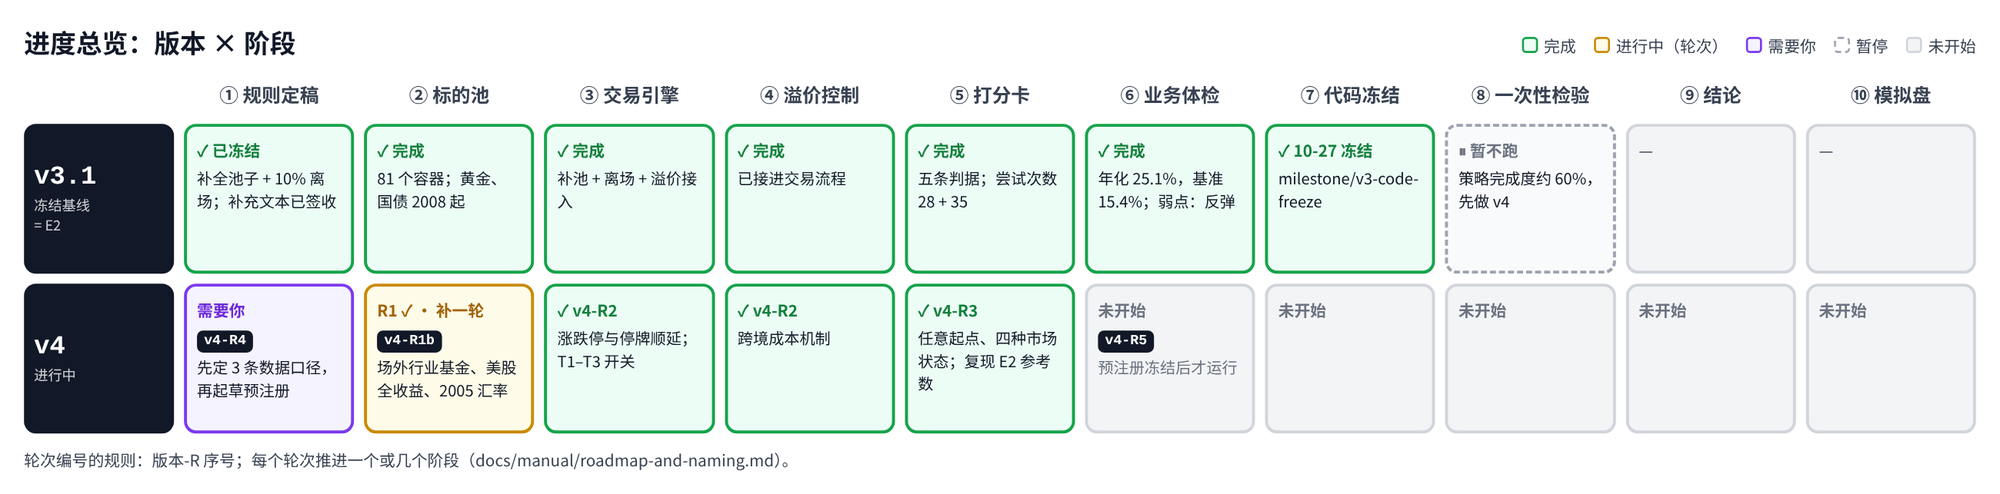
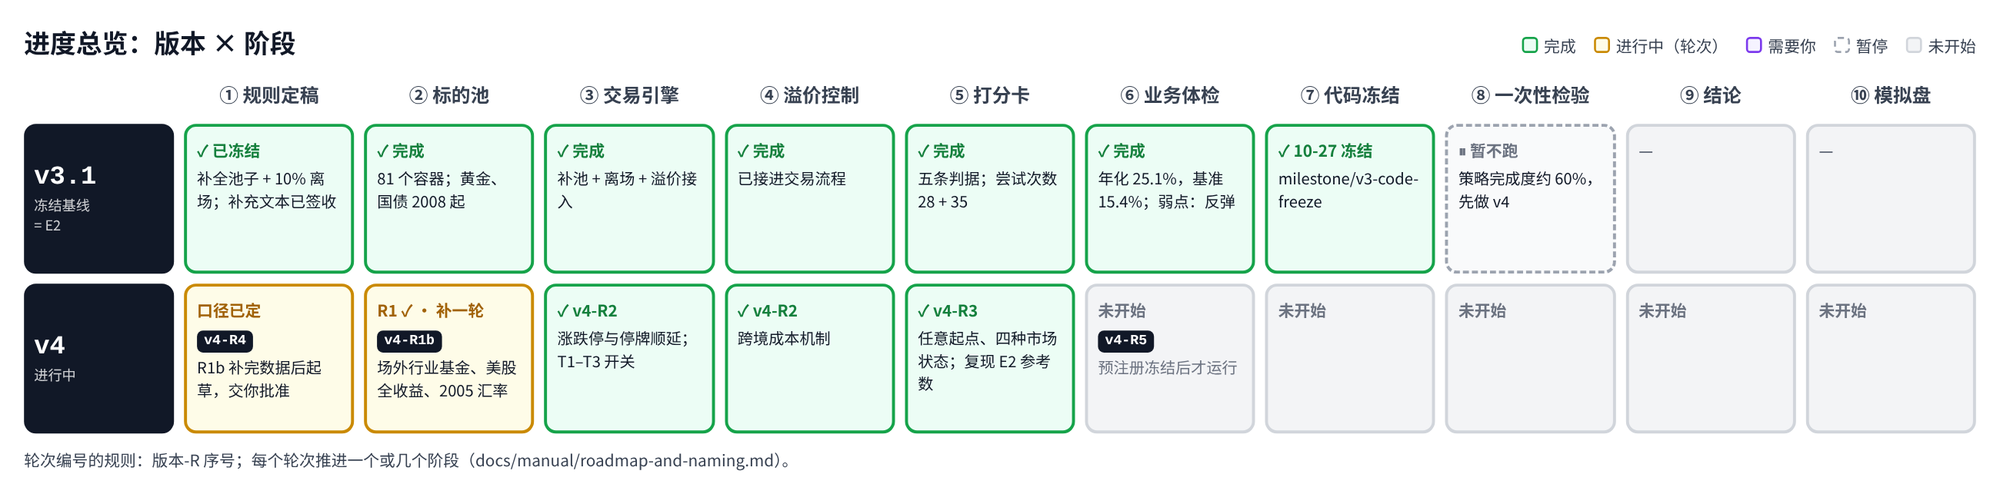
D14 定稿（三条口径选 A、数据原则）；数据原则手册；v4-R1b 计划改版（取消 R2b）；备忘第 6 版 4.5c 只用当时数据判断市场状态
Claude-Session: https://claude.ai/code/session_01PmXaEwvnhMrSzwWPeiEpbL

Changed region(s): [[0.093, 0.5466, 0.186, 0.668], [0.093, 0.7287, 0.186, 0.8198], [0.093, 0.8502, 0.186, 0.8806]]

diff --git a/results/v3/diag/2026-10-27-owner-board/roadmap2.html b/results/v3/diag/2026-10-27-owner-board/roadmap2.html
@@ -37,7 +37,7 @@ body{font-family:"Noto Sans CJK SC",sans-serif;background:#fff;color:#111827;wid
 <div class="c todo"><div class="s">—</div></div>
 
 <div class="row"><b>v4</b><span>进行中</span></div>
-<div class="c own"><div class="s">需要你</div><span class="r">v4-R4</span><br>先定 3 条数据口径，再起草预注册</div>
+<div class="c go"><div class="s">口径已定</div><span class="r">v4-R4</span><br>R1b 补完数据后起草，交你批准</div>
 <div class="c go"><div class="s">R1 ✓ · 补一轮</div><span class="r">v4-R1b</span><br>场外行业基金、美股全收益、2005 汇率</div>
 <div class="c done"><div class="s">✓ v4-R2</div>涨跌停与停牌顺延；T1–T3 开关</div>
 <div class="c done"><div class="s">✓ v4-R2</div>跨境成本机制</div>

diff --git a/results/v3/diag/2026-10-28-orchestrator-ic/charts_state.py b/results/v3/diag/2026-10-28-orchestrator-ic/charts_state.py
@@ -1,0 +1,27 @@
+# 图（2026-10-28）：只用当时已有数据判断的市场状态。读 pit_state.pkl（pit_state.py 产出），基准指数价格，≤2015。
+import pickle,pandas as pd,numpy as np,matplotlib
+matplotlib.use('Agg'); import matplotlib.pyplot as plt
+from matplotlib.patches import Patch
+plt.rcParams.update({'font.family':['Noto Sans CJK SC'],'axes.unicode_minus':False,'axes.spines.top':False,'axes.spines.right':False,
+ 'axes.grid':True,'grid.alpha':.22,'font.size':11.5,'axes.edgecolor':'#9ca3af'})
+INK,MUTED='#111827','#6b7280'
+d=pickle.load(open('pit_state.pkl','rb'))
+C={'牛市':'#16a34a','回调':'#fbbf24','熊市':'#dc2626','反弹':'#60a5fa'}
+fig,axs=plt.subplots(3,1,figsize=(11,6.4),sharex=True,gridspec_kw=dict(height_ratios=[3,.55,1.6],hspace=.22))
+ax=axs[0]; ax.plot(d.index,d.px/d.px.iloc[0],color=INK,lw=1.8); ax.set_ylabel('基准（起点=1）')
+ax.annotate('2007-10 见顶',xy=(pd.Timestamp('2007-10-31'),d.px.loc['2007-10-31']/d.px.iloc[0]),xytext=(pd.Timestamp('2008-08-01'),3.2),fontsize=10,color=MUTED,arrowprops=dict(arrowstyle='->',color=MUTED))
+ax.annotate('2008-11 见底',xy=(pd.Timestamp('2008-11-28'),d.px.loc['2008-11-28']/d.px.iloc[0]),xytext=(pd.Timestamp('2009-06-01'),1.0),fontsize=10,color=MUTED,arrowprops=dict(arrowstyle='->',color=MUTED))
+ax=axs[1]; ax.grid(False); ax.set_yticks([])
+for t,s in d.dst.items():
+    if isinstance(s,str): ax.bar(t,1,width=29,color=C[s],align='edge')
+ax.set_ylim(0,1); ax.set_ylabel('方向',rotation=0,ha='right',va='center')
+ax.text(pd.Timestamp('2006-02-01'),.35,'历史不足',fontsize=9.5,color=MUTED)
+ax.legend(handles=[Patch(color=c,label=k) for k,c in C.items()],ncol=5,frameon=False,fontsize=9.5,loc='lower right',bbox_to_anchor=(1,.98),handlelength=1)
+ax=axs[2]
+ax.fill_between(d.index,d.pct*100,step='post',color='#a78bfa',alpha=.5,lw=0)
+ax.axhline(50,color=MUTED,lw=1,ls='--'); ax.text(d.index[-1],52,'中间',fontsize=9.5,color=MUTED,ha='right')
+ax.set_ylim(0,100); ax.set_ylabel('单边程度\n（历史百分位）',fontsize=10.5)
+ax.text(pd.Timestamp('2006-02-01'),40,'历史不足，\nT2 先按各 1/4',fontsize=9.5,color=MUTED)
+axs[0].set_title('只用当时已有的数据：方向能认出 07 年牛、08 年熊，但都晚几个月',loc='left',fontsize=14.5,weight='bold',color=INK,pad=28)
+axs[0].text(0,1.03,'方向：过去 12 个月和过去 1 个月的涨跌（每个月末判断）。单边程度：过去 60 天净涨跌 ÷ 每天涨跌之和，再和此前的历史比。基准指数，设计期。',transform=axs[0].transAxes,fontsize=9.8,color=MUTED,va='bottom')
+fig.savefig('out/r5-pit-state.png',dpi=200,bbox_inches='tight',facecolor='white')

diff --git a/results/v3/diag/2026-10-28-orchestrator-ic/pit_state.py b/results/v3/diag/2026-10-28-orchestrator-ic/pit_state.py
@@ -1,0 +1,19 @@
+# 诊断（2026-10-28）：只用当天以前的数据判断市场状态（T2 的口径）。只用基准指数价格，≤2015。
+import pickle,pandas as pd,numpy as np
+bm=pickle.load(open('aux.pkl','rb'))[0]
+px=(1+bm).cumprod()
+er=(px-px.shift(60)).abs()/px.diff().abs().rolling(60).sum()
+dirn=np.sign(px/px.shift(60)-1)
+pct=er.expanding(min_periods=250).apply(lambda x:(x[:-1]<x[-1]).mean(),raw=True)
+me=px.index.to_series().groupby(px.index.to_period('M')).last()
+d=pd.DataFrame({'px':px,'er':er,'pct':pct,'dir':dirn}).loc[me.values].loc['2006':'2015']
+def lab(r):
+    if r.pct>=0.5: return '单边涨' if r.dir>0 else '单边跌'
+    return '震荡偏涨' if r.dir>0 else '震荡偏跌'
+d['state']=d.apply(lab,axis=1)
+d['fast']=0.25+0.5*d.pct
+pickle.dump(d,open('pit_state.pkl','wb'))
+print(d.state.value_counts().to_dict())
+print(d.groupby(d.index.year).state.agg(lambda s:s.value_counts().to_dict()).to_string())
+print(d.loc['2008-06':'2009-09',['er','pct','dir','state','fast']].round(2).to_string())
+print('first pct date',pct.first_valid_index())

diff --git a/operations/planning/2026-10-28-v4-r1b-plan.md b/operations/planning/2026-10-28-v4-r1b-plan.md
@@ -1,72 +1,72 @@
-# v4 下一批任务：v4-R1b、v4-R2b、标签清理（2026-10-28）
+# v4 下一批任务：v4-R1b 与标签清理（2026-10-28）
 
 ## Metadata
 
 - Project: ETF_Rotation_Quant
 - Document type: planning
-- Status: active（D14-3 至 D14-5 按 Owner 的选择执行；下文按建议 A 写，Owner 选 B 时按 D14 改）
+- Status: active
 - Owner: L. Loric
 - Maintainer: Orchestrator
 - Date: 2026-10-28
-- 依据：D14、D13、D12；`docs/owner/v4-research-memo.md`（第 5 版）；`operations/work_logs/2026-10-28-v4-r1-data-exploration.md`
+- 依据：D14（含 D14-8 数据原则）、D13、D12；`docs/manual/data-principles.md`；`docs/owner/v4-research-memo.md`（第 6 版）；`operations/work_logs/2026-10-28-v4-r1-data-exploration.md`
 
 ## 轮次
 
 | 轮次 | 推进阶段 | 内容 | 主要负责 |
 | --- | --- | --- | --- |
-| v4-R1b | ② 标的池 | A 股场外行业指数基金（D14-1）；美股 ETF 全收益还原（D14-3）；港股换人民币和 2005 年汇率（D14-5）；数据质量清单处理；新池复算 IC | Dev 取数，Manager 探索，Reviewer 抽查 |
-| v4-R2b | ③ 交易引擎 | 场外基金的成交方式（按净值成交、申赎费、到账延迟），做成开关 | Dev，Reviewer |
+| v4-R1b | ② 标的池 | 全部场内 ETF 后复权；A 股场外行业指数基金；港股换人民币和 2005 年汇率；R1 质量清单；新池复算 IC | Dev 取数，Manager 探索，Reviewer 抽查 |
 | 标签清理 | — | D14-2 | Manager 执行，Reviewer 核对 |
 | v4-R4 | ① 规则定稿 | 以上完成后，Orchestrator 起草 v4 预注册 | Orchestrator |
 
-## 给 Grok 群的任务（可以整段复制）
+原计划的 v4-R2b（场外基金按净值成交、申赎费、到账延迟）取消：Owner 决定场外基金不考虑这些（D14-8）。
 
-```text
-【轮次】v4-R1b（② 标的池补充）+ v4-R2b（③ 场外基金成交）+ 标签清理（三项可以并行）
-【依据】D14（operations/planning/2026-10-28-d14-owner-decisions.md）、D13、v4 研究备忘第 5 版（docs/owner/v4-research-memo.md）
-【先读】D14 全文；R1 探索记录的“待 Orchestrator”一节
+## 详细任务
 
-总边界（所有任务都适用）：
-- 不运行任何 v4 候选规则来看组合收益；预注册（v4-R4）冻结前只做数据、代码和工具。
+总边界：
+- 不运行任何 v4 候选规则来看组合收益；预注册冻结前只做数据、代码和工具。
 - 不计算 2016-01-01 以后的任何组合收益；涉及收益的统计只用 ≤2015-12-31。
 - 不强推、不改写 main；合入用 --ff-only 或 squash。
-- 标签：只按 D14-2 删除列出的 9 个；不移动任何标签；milestone/phase1-archive 永不删除、不移动。
+- 标签：只按 D14-2 删除列出的 9 个；不移动任何标签；`milestone/phase1-archive` 永不删除、不移动。
+- 后端接口拿不到的数据，用自己的电脑去网页上找（官网、交易所、基金公司、行情网站），留下来源网址和截图（数据原则第 4 条）。
 - 不写时间估计。每个任务按“目标 / 改动面 / 验证 / 完成判据”汇报。
 
-==================== 标签清理（D14-2）====================
+### 0. Manager 先合入 PR #59
+
+本批文件（D14、数据原则、本计划、备忘第 6 版）都在 PR #59 里。
+
+### 1. 标签清理（D14-2）
+
 【Manager】
-1. 新建 docs/manual/milestones.md（里程碑索引）：12 个标签逐个登记标签名、标签对象 SHA、指向的提交、标签说明、保留还是删除、理由。
-2. 删除前逐个确认：6 个 milestone/* 的提交是 origin/main 的祖先（git merge-base --is-ancestor，先 git fetch --unshallow 或完整历史）；3 个 keep/cursor/* 的提交分别等于 refs/pull/42/head、refs/pull/46/head、refs/pull/33/head（用 git ls-remote origin 'refs/pull/*/head' 核对）。不通过的不删，写进记录。
-3. 删除通过确认的标签（git push origin --delete refs/tags/<名字>），只删 D14-2 列出的 9 个。
-4. 改 AGENTS.md 的“tag 与分支纪律”一条：不移动任何 tag；删除只按 Owner 决定记录执行，删除前写入 docs/manual/milestones.md；milestone/phase1-archive 永不删除、不移动。改 docs/manual/roadmap-and-naming.md：每个版本最多两个标签（<版本>-prereg-freeze、<版本>-code-freeze），每个阶段一个 phase<N>-archive，不再用 keep/* 标签。
-完成判据：origin 上只剩 milestone/phase1-archive、milestone/v3.1-prereg-freeze、milestone/v3-code-freeze 三个标签，三者对象 SHA 与清理前一致；索引里 12 行齐全。记录写入 operations/work_logs/2026-10-28-tag-cleanup.md。
+1. 新建 `docs/manual/milestones.md`（里程碑索引）：12 个标签逐个登记标签名、标签对象 SHA、指向的提交、标签说明、保留还是删除、理由。
+2. 删除前逐个确认：6 个 `milestone/*` 的提交是 `origin/main` 的祖先（先取完整历史再用 `git merge-base --is-ancestor`）；3 个 `keep/cursor/*` 的提交分别等于 `refs/pull/42/head`、`refs/pull/46/head`、`refs/pull/33/head`（用 `git ls-remote origin 'refs/pull/*/head'` 核对）。不通过的不删，写进记录。
+3. 删除通过确认的标签，只删 D14-2 列出的 9 个。
+4. 改 `AGENTS.md` 的“tag 与分支纪律”：不移动任何 tag；删除只按 Owner 决定记录执行，删除前写入里程碑索引；`milestone/phase1-archive` 永不删除、不移动。改 `docs/manual/roadmap-and-naming.md`：每个版本最多两个标签（`<版本>-prereg-freeze`、`<版本>-code-freeze`），每个阶段一个 `phase<N>-archive`，不再用 `keep/*`。在 `AGENTS.md` 里加一句：取数按 `docs/manual/data-principles.md`。
+
+完成判据：origin 上只剩 `milestone/phase1-archive`、`milestone/v3.1-prereg-freeze`、`milestone/v3-code-freeze`，对象 SHA 与清理前一致；索引 12 行齐全。记录写入 `operations/work_logs/2026-10-28-tag-cleanup.md`。
+
 【Reviewer】独立核对：保留的 3 个对象 SHA 未变；删除的 9 个在索引里有记录，提交仍可从 main 或 PR 引用到达。
 
-==================== v4-R1b（推进：② 标的池）====================
+### 2. v4-R1b 取数（② 标的池）
+
 【Dev】
-1. A 股场外行业指数基金（D14-1）：找出 2006–2011 年已经成立、跟踪 A 股行业或宽基指数的开放式指数基金（含 LOF 的场外份额），对应到我们 14 个 A 股容器（沪深300、中证500、中证1000、红利、10 个中证全指行业）；跟踪的是相近指数的，写清是哪个指数。逐只登记：基金代码、名称、跟踪指数、成立日、单位净值和分红（或累计净值）的日线、申购费、赎回费、管理费、托管费、申购确认日、赎回到账日、来源 URL、SHA256。新增容器写进 config/v4/universe.toml，类型标为场外基金。
-2. 美股 ETF 全收益（D14-3，建议 A）：先查清 Yahoo 的 close 在 2016-09-19（XLF）和 2025-12-05（XLB、XLE、XLK、XLU、XLY）是不是已经按拆分调过（R1 质量清单第 1、2 行），写明结论；再用已入库的收盘和分红还原 11 只 ETF 的全收益日线（当日收益 =（收盘 + 当日除息金额）÷ 前一日收盘 − 1），作为新序列登记，不覆盖原序列。
-3. 港股人民币口径（D14-5，建议 A）：从中国人民银行或外汇交易中心的公告补登 2005 年的美元、港币兑人民币中间价，登记来源；取不到就写明。不改现有 HKDCNY 序列。
-4. 处理 R1 质量清单：H20184、H20187、H20202、H30184、H30187、H30202 在 2013-06-28 的 close = 0 改为空值；HSF 2013-12-30、1997-10-28 用恒生官方日线核对后写结论。
-完成判据：覆盖表更新（results/v4/inventory/coverage.csv）；data/market.sqlite 变更前后 SHA256；单元测试通过。
+1. **全部场内 ETF 后复权**（数据原则第 1 条）：A 股 ETF、QDII、美股行业 ETF，逐只做后复权序列，分红再投资，拆分、合并、份额折算都处理。先查清 Yahoo 的收盘价在 2016-09-19（XLF）、2025-12-05（XLB、XLE、XLK、XLU、XLY）是否已按拆分调过，写明结论，避免调两次。新增序列，不覆盖原始收盘。每只抽查一次分红日、一次拆分日（如有）前后收益是否连续。顺带核对 v3 现有 A 股 ETF 的后复权（`cash_dividends` 表和 `total_return_close`）有没有漏掉拆分或份额折算。
+2. **A 股场外行业指数基金**（D14-1）：找出 2006–2011 年已成立、跟踪 A 股行业或宽基指数的开放式指数基金（含 LOF 场外份额），对应到 14 个 A 股容器；跟踪相近指数的写清是哪个。逐只登记：代码、名称、跟踪指数、成立日、净值加分红（或累计净值、复权净值）的日线、来源网址、SHA256。**不需要**登记申赎费和到账天数。新增容器写进 `config/v4/universe.toml`，类型标为场外基金。
+3. **港股换人民币和 2005 年汇率**（D14-5）：先在中国人民银行、中国外汇交易中心的网页上找 2005 年美元、港币兑人民币中间价；找不到港币的，用美元兑人民币和港币兑美元换算；仍缺的，用最近 20 个交易日的平均值往前补齐，并标明哪些日子是补的。
+4. **R1 质量清单**：H20184、H20187、H20202、H30184、H30187、H30202 在 2013-06-28 的 0 改为空值；HSF 的 2013-12-30、1997-10-28 用恒生官方日线核对后写结论。
+
+完成判据：覆盖表更新（`results/v4/inventory/coverage.csv`）；`data/market.sqlite` 变更前后 SHA256；单元测试通过。
 
 【Manager】数据探索（只做描述，不算组合收益）
-1. 场外基金覆盖：2006–2015 每年 14 个 A 股容器里，有 ETF 的、只有场外基金的、两者都没有的各几个。基金净值对所跟踪指数的年化跟踪差（≤2015）。
-2. 全收益对照：美股 ETF 全收益与收盘价两种口径下，2006–2015 每个月末前 3/5/8 名里各市场的名额占比差多少（同 R1 第 4 节的方法）。
-3. 新池复算 IC（方法见 operations/work_logs/2026-10-28-orchestrator-ic-baseline.md）：用新池全部可选名字，长度取 5、10、20、40、60、90、120、180、250 日和四个平均，报告平均 IC、t、前后两段（2006–10、2011–15）、逐年 IC 的前后相关，以及“跑赢现金”门槛的预测力。和 Orchestrator 的 17 个指数结果对照。
-完成判据：operations/work_logs/2026-10-28-v4-r1b-exploration.md；有疑问的放“待 Orchestrator”。
+1. 场外基金覆盖：2006–2015 每年 14 个 A 股容器里，有 ETF 的、只有场外基金的、都没有的各几个；基金对所跟踪指数的年化跟踪差（≤2015）。
+2. 后复权对照：后复权和原始收盘两种口径下，2006–2015 每个月末前 3/5/8 名里各市场的名额占比差多少（方法同 R1 第 4 节）。
+3. 新池复算 IC（方法见 `operations/work_logs/2026-10-28-orchestrator-ic-baseline.md`）：新池全部可选名字，长度取 5、10、20、40、60、90、120、180、250 日和四个平均，报告平均 IC、t、前后两段、逐年 IC 的前后相关、“跑赢现金”门槛的预测力；和 Orchestrator 的 17 个指数结果对照。
+
+完成判据：`operations/work_logs/2026-10-28-v4-r1b-exploration.md`；疑问放“待 Orchestrator”。
 
 【Reviewer】
-1. 抽查：场外基金随机 3 只、美股全收益 3 只，各 5 个日期，用另一个来源核对净值或收益。
-2. 复算 Orchestrator 的 IC（17 个指数口径）：20、60、120、250 日和四个平均的平均 IC 分别应为 0.093、0.028、−0.004、0.049、0.069。用独立实现，不用 Orchestrator 的脚本。
+1. 抽查：后复权 ETF 随机 3 只、场外基金随机 3 只，各 5 个日期，用另一个来源核对；补出来的汇率抽 3 天核对。
+2. 用独立实现复算 Orchestrator 的 IC（17 个指数口径）：20、60、120、250 日和四个平均的平均 IC 应为 0.093、0.028、−0.004、0.049、0.069。
 
-==================== v4-R2b（推进：③ 交易引擎）====================
-【Dev】
-1. 场外基金的成交方式，做成开关：申购和赎回按当天的单位净值成交；申购费、赎回费按登记的费率计；赎回的钱按登记的到账日才可以再用；申购确认前不计入持仓。具体费率和天数由 v4 预注册给出，先用登记值写测试。
-2. 开关全关时，v3.1 的 P1 结果逐日不变。
-【Reviewer】签收：开关全关一致；边界用例（申购当天正好离场、赎回资金未到账时遇到调仓日、分红再投资）。
+### 3. 完成后
 
-==================== 完成后 ====================
-Manager 按五段汇报：本轮完成 / 能做什么不能做什么 / 业务信号 / 风险卡点 / 需要 Owner 的事。
-需要 Orchestrator 决定的数据问题，单独列出，写清影响和备选。
-```
+Manager 按五段汇报：本轮完成 / 能做什么不能做什么 / 业务信号 / 风险卡点 / 需要 Owner 的事。需要 Orchestrator 决定的数据问题单独列出，写清影响和备选。

diff --git a/operations/planning/2026-10-28-d14-owner-decisions.md b/operations/planning/2026-10-28-d14-owner-decisions.md
@@ -4,7 +4,7 @@
 
 - Project: ETF_Rotation_Quant
 - Document type: planning（决定记录）
-- Status: active（D14-3 至 D14-5 待 Owner 选择）
+- Status: active
 - Owner: L. Loric
 - Maintainer: Orchestrator
 - Date: 2026-10-28（Asia/Taipei）
@@ -15,12 +15,13 @@
 
 | 编号 | 决定 | 说明 |
 | --- | --- | --- |
-| D14-1 | **A 股场外行业指数基金进入 v4 的可交易池**：2006–2011 年境内还没有对应 ETF 时，用当时已经成立、跟踪同一或相近指数的场外指数基金代表“当时能买到的仓位” | Owner 批准（D12-8 原则）。成交按基金净值，申购赎回费、确认和到账延迟如实计入，具体数值写进 v4 预注册。取数在 v4-R1b，引擎支持在 v4-R2b |
+| D14-1 | **A 股场外行业指数基金进入 v4 的可交易池**：2006–2011 年境内还没有对应 ETF 时，用当时已经成立、跟踪同一或相近指数的场外指数基金代表“当时能买到的仓位” | Owner 批准（D12-8 原则）。按净值做成收益序列，和其他序列一样参加排名；申购赎回费、确认和到账天数不考虑（Owner 2026-10-28，见 D14-8）。取数在 v4-R1b，不需要改引擎 |
 | D14-2 | **标签清理**：保留 3 个，删除 9 个，删除前写入里程碑索引 | Owner 要求。`milestone/phase1-archive` 永不删除、不移动（第一阶段里程碑，对应现在的 README）。细则见下方 |
-| D14-3 | **美股行业收益口径**：待 Owner 选择。建议 A：用已入库的未复权收盘、分红和拆分还原 ETF 全收益，不购买标普官方历史 | D13-1 已定美股以 ETF 为主、官方指数只作核对。还原前先查清拆分日收盘是否已调整（R1 质量清单），避免复权两次 |
-| D14-4 | **港股行业粒度**：待 Owner 选择。建议 A：先用恒生指数 4 个分类（金融、公用、地产、工商），预注册写明这是对“同样粒度”原则的偏离 | 恒生综合 12 个行业没有公开日线，需付费。新池里港股约占前几名的 10% |
-| D14-5 | **港股汇率口径**：待 Owner 选择。建议 A：港股换算成人民币，规则和美股一样，汇率历史不够的日子不参加排名；Dev 尝试从人民银行公告补登 2005 年中间价 | 三个市场口径统一 |
+| D14-3 | **美股行业收益口径**：A，自己还原，按后复权处理（D14-8），不购买标普官方历史 | D13-1 已定美股以 ETF 为主、官方指数只作核对。还原前先查清拆分日收盘是否已调整（R1 质量清单），避免复权两次 |
+| D14-4 | **港股行业粒度**：A，先用恒生指数 4 个分类（金融、公用、地产、工商），预注册写明这是对“同样粒度”原则的偏离 | 恒生综合 12 个行业没有公开日线，需付费。新池里港股约占前几名的 10% |
+| D14-5 | **港股汇率口径**：A，港股换算成人民币。2005 年缺的汇率先上网页找，找不到用最近数据往前平滑补齐并标明（D14-8） | 三个市场口径统一 |
 | D14-6 | **池子构成**：宽基和行业同时进入排名，不删宽基 | Orchestrator 决定。A 股池本来就是宽基（沪深300、中证500、中证1000、红利）加 10 个行业，美股、港股同样处理才是“同样的粒度” |
+| D14-8 | **数据原则**（Owner 2026-10-28）：① 场内 ETF 一律后复权，分红、拆分、合并都要处理，这是项目的基石；② 场外基金只用来还原市场，不考虑申赎费和到账天数；③ 汇率缺了就补：先找，找不到往前平滑补齐；④ 接口拿不到的，Grok 团队用自己的电脑去网页上想办法 | 写成 `docs/manual/data-principles.md` |
 | D14-7 | **IC 检验记为探索，不计入判据 ⑤** | Orchestrator 决定。只用指数价格算排名相关和门槛预测力，没有组合配置。记录见 `operations/work_logs/2026-10-28-orchestrator-ic-baseline.md`。Reviewer 可以提出异议 |
 
 ## D14-2 标签细则

diff --git a/docs/manual/data-principles.md b/docs/manual/data-principles.md
@@ -1,0 +1,42 @@
+# 数据原则
+
+## Metadata
+
+- Project: ETF_Rotation_Quant
+- Document type: manual
+- Status: active
+- Owner: L. Loric
+- Maintainer: Orchestrator
+- Date: 2026-10-28
+- 依据：Owner 2026-10-28 的数据要求（D14-8）；D12-8“带知识、不带数据”
+
+所有执行者取数、入库、计算收益时都按这几条。和其他文件冲突时，以本文件和 Owner 的决定记录为准。
+
+## 1. 场内 ETF：一律后复权
+
+- 凡是能在场内交易的 ETF（A 股 ETF、QDII、美股 ETF），计算收益一律用**后复权**序列：分红再投资，拆分、合并、份额折算都要处理。
+- 这是项目的基石。没有处理好的序列不能进入排名或回测。
+- 做法：保留原始收盘价，另存一条后复权序列，两者都登记来源和 SHA256。先确认来源的收盘价有没有已经按拆分调过，避免调两次。
+- 每次新增或更新，抽查至少一次分红和一次拆分（如有）前后的收益是否连续。
+
+## 2. 场外基金：只用来还原市场
+
+- 场外指数基金只用来还原“当年能买到的市场”（D14-1），按单位净值加分红（或累计净值、复权净值）做成收益序列，和其他序列一样参加排名。
+- **不考虑**申购费、赎回费、确认天数和到账天数。
+
+## 3. 汇率：缺了就补，并标明是补的
+
+- 先找官方来源（中国人民银行、中国外汇交易中心的公告），接口拿不到就用电脑上网页找。
+- 实在找不到时，用最近的已有数据往前平滑补齐（例如取最近 20 个交易日的平均值向前延伸），并在序列上标明哪些日子是补的。
+- 港币按人民币计算时，可以用美元兑人民币和港币兑美元换算（港币与美元挂钩是当时已知的事实）。
+
+## 4. 接口拿不到，就想办法
+
+- Grok 团队有自己的电脑。后端接口拿不到的数据，用浏览器去官网、交易所、基金公司或行情网站的页面找，可以下载或手工整理，留下来源网址和截图。
+- 付费数据先报给 Orchestrator，由 Owner 决定买不买。
+
+## 5. 一贯的边界
+
+- 设计期可以用今天的知识，不能用今天的数据（D12-8）。
+- 不用 2016-01-01 以后的数据计算任何组合收益，除非 Owner 批准一次性检验。
+- 不覆盖已有序列；修改要新增一条并写明原因。

diff --git a/operations/work_logs/2026-10-28-orchestrator-ic-baseline.md b/operations/work_logs/2026-10-28-orchestrator-ic-baseline.md
@@ -58,3 +58,11 @@ Owner 问：E2 的 1、3、6、12 个月、各 1/4 合不合理；能不能用 I
 - T2，基准 60 日趋势效率与百分位：2012-06-29 为 0.01、2%，快的两组合计 26%；2009-03-31 为 0.20、42%，合计 46%；2009-06-30 为 0.36、74%，合计 62%。设计期分布：中位数 0.16，四分位 0.08–0.27。
 - 2009-03-31、N = 5 的目标持仓：E2 现金 25%；只开 T1 现金 0%；只开 T2 现金 27%；T1 + T2 现金 0%。
 - 2012-06-29、N = 5：T1 也会触发，6 个月组把纳指100 换成医药，12 个月组从 2 只变成 3 只。横盘中来回换是 T1 的主要风险。
+
+## 补充：只用当时数据判断市场状态（2026-10-28）
+
+脚本：`pit_state.py`、`charts_state.py`。基准指数价格，每个月末只用当天以前的数据。
+
+- 方向（过去 250 日、20 日涨跌）：2007-11 首次显示回调，2008-05 确认熊市；2008-11 底闪过一次反弹，2009-01 至 2009-06 连续反弹，2009-07 确认牛市。基准序列从 2006-01-05 起，前 12 个月无法判断。
+- 单边程度（60 日趋势效率的扩展百分位，最少 250 天历史）：2007-04 起才有值。2006–2015 的 120 个月末里，单边涨 26、单边跌 9、震荡偏涨 39、震荡偏跌 46（以百分位 50 为界）。2007 年的大牛、2008 年的大熊大多在 50 以下；2014 下半年至 2015 上半年明显偏高。
+- 结论：方向和单边程度是两把不同的尺子。T2 的定义不因此修改。预注册里状态变量用 2005 年起的指数历史，历史不足时 T2 回到各 1/4。
